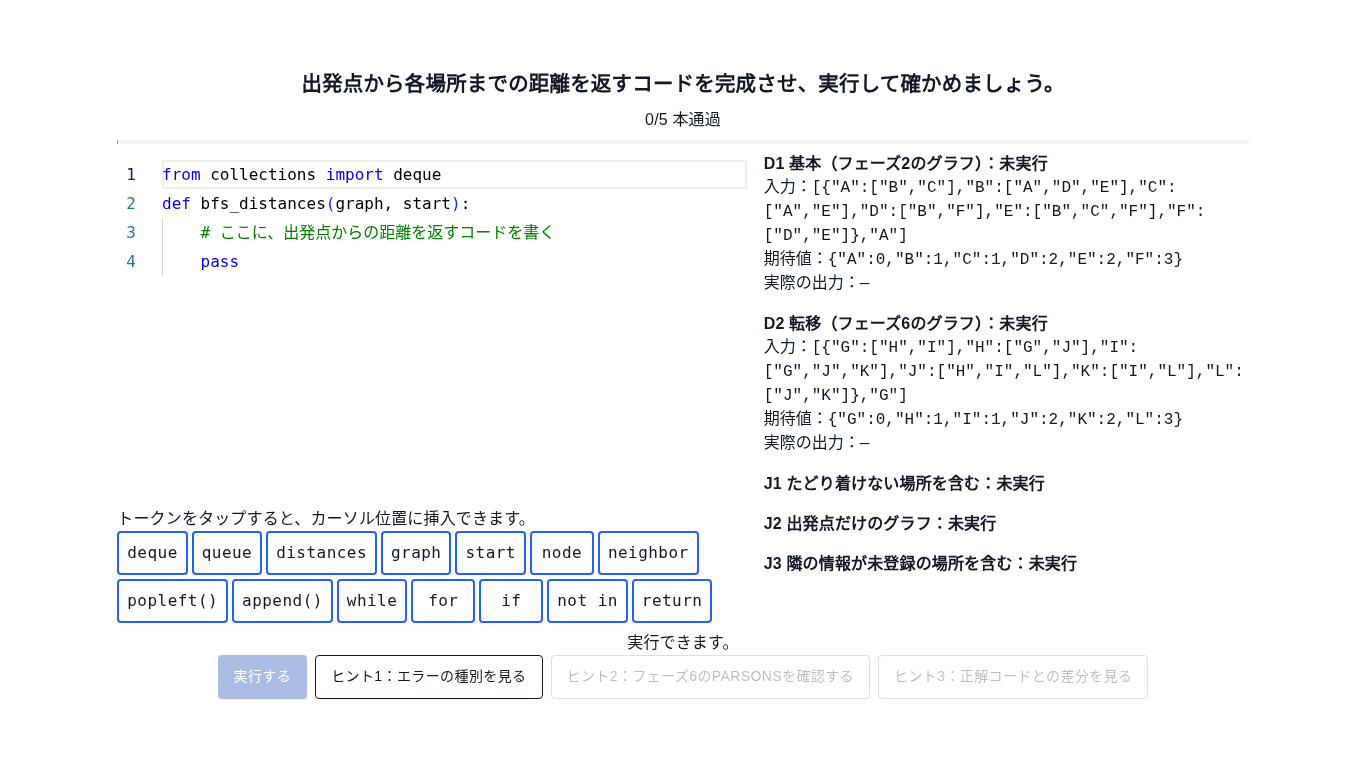
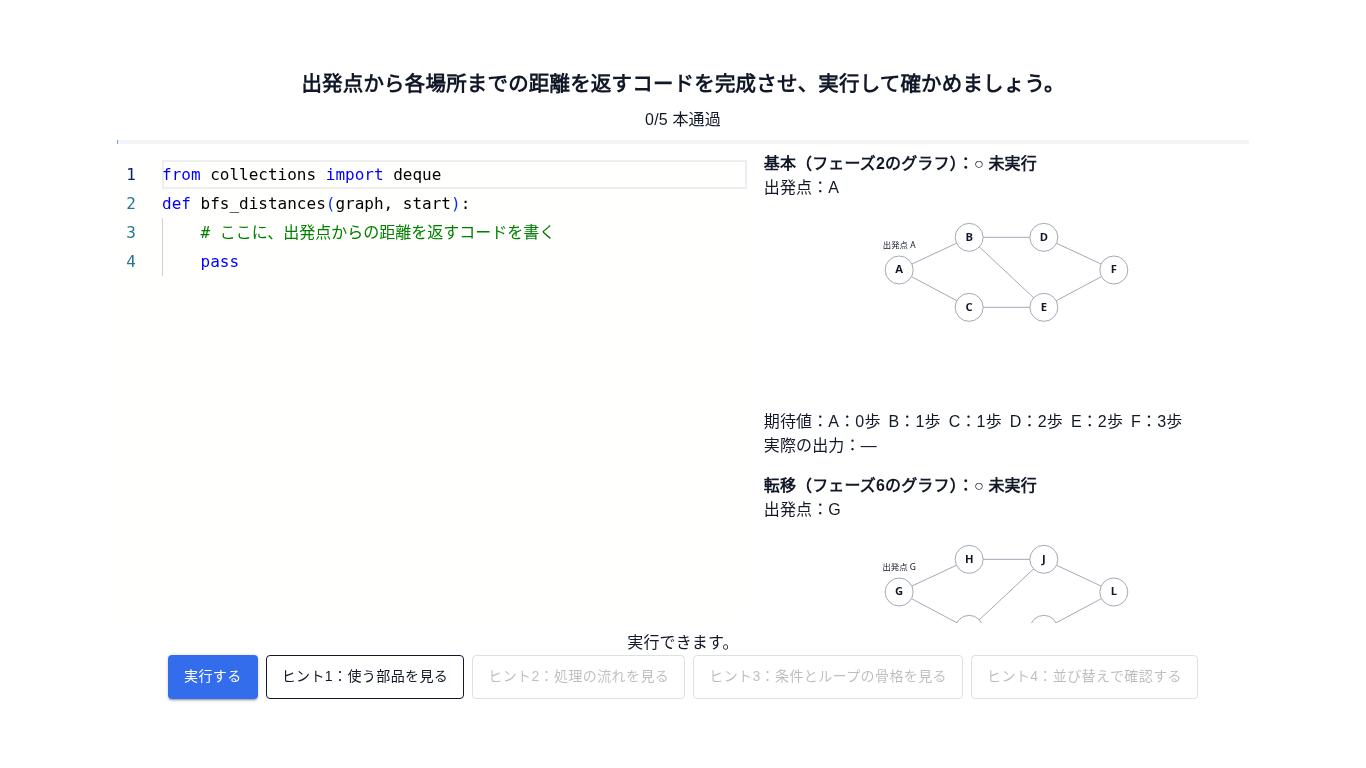
docs: PR99の試行版ヒントと結果表示の確認手順・画像を更新する

diff --git a/docs/bfs-implementation-75.md b/docs/bfs-implementation-75.md
@@ -1,45 +1,48 @@
-# Issue #75 BFS自力実装の実装・検証記録
+# Issue #75・PR #99 BFS自力実装の実装・検証記録
 
-- 目的: テンプレートから自由記述し、5テスト・3段階ヒント・全通過リザルトまでレビューする。
-- 適用範囲: フェーズ7の単品プレビューとParsonsの採点なし表示。状態: 記録。最終確認日: 2026-11-05。
-- 起点: `develop` `262cc2b`（PR #98 マージ済み）。
-- 正本: [Issue #75](https://github.com/BeppuKanato/engineer-quest/issues/75)、[教材指針 §1・フェーズ7](concept/learning-materials-guideline.md)、[UI定義](concept/learning-player-ui.md)、[要約](concept/learning-materials-v2.md)。
-- 詳細: [フェーズ7 README](../front/src/features/learning/bfs/implementation/README.md)。
+- 目的: 自由記述・5テスト・ヒント・全通過リザルト、およびPR #99のレビュー修正を確認する。
+- 適用範囲: フェーズ7の単品ページ。状態: 記録（4段階ヒントの試行版）。最終確認日: 2026-11-05。
+- 起点: `develop` `262cc2b`。レビュー修正の起点: `feat/bfs-implementation-75` `cc93757`。
+- 正本: [PR #99とユーザーレビュー](https://github.com/BeppuKanato/engineer-quest/pull/99)、[Issue #75](https://github.com/BeppuKanato/engineer-quest/issues/75)、[教材指針フェーズ7](concept/learning-materials-guideline.md)、[UI定義](concept/learning-player-ui.md)。詳細は[フェーズ7 README](../front/src/features/learning/bfs/implementation/README.md)。
 
-## 実装内容
+## 今回の変更
 
-既存Monacoで`bfs_distances(graph, start)`を骨組みから完成させる。14個の補助チップは指定のトークンだけで、現在のカーソル位置へ挿入する。
-既存Pyodide基盤で表示用2ケース・判定用3ケースを実行し、1ケースごとに通過数を更新する。判定用は種別と合否だけを描画し、値・標準出力・生の例外を表示しない。
-全5ケースを通過するまでは何度でも編集・再実行でき、全通過時に称号・通過数・実行回数・ヒントのレベル別利用回数・単元完了文を表示する。
-84vw × 84dvhの枠と16pxのコード文字を保ち、モバイルは枠内スクロールでエディタ・チップ・結果へアクセスする。
+テストの見出しから内部IDを除き、ラベルとアイコン＋「通過／未通過／未実行」で表示する。表示用テストの入力JSONを、既存ConsolidationGraphで描く小さいグラフと出発点に置き換えた。D1は正準bfsGraph、D2はフェーズ6のtransferGraphそのものを参照する。描画・座標・色・比率は共通資産に従う。
+期待と実際の距離は「A：0歩」の並びで表示し、値違い・項目不足・余分なキーを文言と下線で識別する。判定用は引き続き種別と合否だけを表示する。
 
-ヒントは1→2→3の順に解放する。レベル1は直近の実行の種別だけを示す。レベル2は最新フェーズ6の設問とParsons盤面を再利用し採点しない。レベル3は現在のコードと正本`bfsCode`から得た本文の行差分を、選択・コピー等を抑止した閲覧専用の表に表示する。適用や貼り付けの操作はない。
+結果欄に文法エラー・実行時エラー・タイムアウト・結果不一致を併記する。未実行時は表示しない。タイムアウトは既存実行器の専用の例外文で判別し、「実行が終わらないテストがあります（無限ループの可能性があります）」と表示する。
+実行中は現在のn/5件目と「各テストは最大15秒、タイムアウト後も続行」を表示し、全5件を打ち切らずに実行する。
 
-## 判断点と対象外
+ヒントを4段階の試行版へ差し替えた。段階式の解放とレベル別利用回数・リザルトは維持する。
 
-- 既存Workerは一括実行の途中で例外が出ると残りの結果を返さないため、同じ`runCourseMissionTests`に1ケースずつ渡す。例外があっても5ケースを試し、結果を逐次更新する。Worker・実行器・15秒タイムアウトの実装は変更しない。
-- エラー分類は既存基盤の文字列から行う。文法エラー以外の実行例外・タイムアウトは「実行の途中でエラー」にまとめ、修正指示や生のエラー文は出さない。
-- レベル2のためにParsonsの`onAnswer`を任意にし、省略時だけ採点ボタンを隠す。フェーズ6の設問・判定・進行は変えない。
-- 判定用データの非表示とレベル3の持ち出し抑止は通常のUIを対象とする。クライアント資産・開発者ツール・画像からの取得を防ぐ仕組みにはしない。
-- 指針にある保存・視覚的デバッグ・次アクションの導線は、今回の明示的な対象外に従い実装しない。DB適用なし、依存追加なし、Mission/Activity変更なし。
+1. 使う部品：distances・queueの説明と14トークン。選ぶと閉じてカーソルへ挿入し、編集フォーカスを戻す。常時チップ行を撤去。
+2. 処理の流れ：指定された番号付き4項目。
+3. 条件とループ：bfsCodeの意味IDから取得したwhile／for／ifの元の3行だけ。本文とインデントを保持する。
+4. 並び替え：既存フェーズ6の設問とParsonsBoard、採点なし。
+
+差分ヒントとこの教材内の差分実装は削除した。`diff`パッケージは`course-exam/codeTranscriptionEditor.tsx`でも使われているため保持し、依存とlockfileを変更しない。
+
+## 指針との差と変更しない範囲
+
+指針・Issue本文の3段階ヒント／常時チップ／差分表示に対し、今回のユーザー指示は試行版の4段階構成を求めている。今回の明示指示を優先し、指針本文自体は改訂しない。
+テスト入力・期待値・骨組み、bfsCodeの本文・意味ID・version、全テスト通過条件は変更しない。
+Monacoのテーマ・文字サイズ・枠と配置、printコンソール、視覚的デバッグ（#76）、アプリ組み込み、保存・ログ送信、フェーズ接続は対象外。DB適用なし。
 
 ## 確認方法
 
-`front/`で`npm ci` → `npm run dev`。起動したマシンで http://localhost:3000/learning-preview/bfs-implementation を開く。ログイン・DB・バックエンドは不要。
-クラウドのlocalhostは、手元PCから直接開ける共有URLではない。
+`front/`で`npm ci` → `npm run dev`。起動したマシンで http://localhost:3000/learning-preview/bfs-implementation を開く。ログイン・DB・バックエンドは不要。クラウドのlocalhostは共有URLではない。
 
-1. MonacoとPyodideの読込完了を待ち、骨組み・14個のチップ・0/5件の進捗・5ケースの一覧を確認する。
-2. カーソルを移してチップを押し、その位置への挿入とUndoを確認する。チップは式や文を補完しない。
-3. 骨組みのまま実行すると通過せず、リザルトへ進めない。ヒント1では結果不一致の種別だけを表示する。
-4. ヒント2を開き、既存Parsonsの行をドラッグまたは上下ボタンで動かす。採点ボタンは出ず、閉じてもエディタのコードは変わらない。
-5. ヒント3で現在のコードと正解本文の行差分を確認する。正解側の文字選択・コピーや、エディタへ適用する操作はない。
-6. BFSを記述し、隣接参照を`graph[node]`にするとJ3で例外となり4/5件になる。J1〜J3に入力・期待値・実際の出力が出ないことを確認する。
-7. `graph.get(node, [])`で未登録の隣接情報を扱えるようにして再実行し、5/5件とリザルトを確認する。実行回数・各レベルの利用回数も確認する。
-8. 再読込で骨組み・0回・未解放ヒントに戻る。別途、文法エラーと実行時エラーを作ってヒント1の区別を確認できる。
+1. 読込完了後、見出しにD1等がなく、ラベル・状態アイコン・グラフ・出発点・期待距離があることを確認する。判定用3件に図や距離が出ないことも確認する。
+2. ヒント1で変数説明と14トークンを確認。カーソルを移してトークンを選ぶと閉じてその位置へ挿入され、Undoで戻せる。
+3. ヒント2で4項目、ヒント3で元のインデントの3行だけ、ヒント4で採点なしParsonsを確認する。前のレベルを開くまで次は無効。閉じてもコードを変えず、再度開くと利用回数を増やす。
+4. 距離を誤るコードや不足・余分な項目を返すコードを実行し、実際の出力の文言と下線を確認する。文法エラーと実行時エラーを作ると、結果欄の種別が切り替わる。
+5. 無限ループを実行するとn/5件目が進み、最大で約75秒かけて全5件が未通過となる。タイムアウトを実行時エラーと別に表示する。
+6. 正解に沿うコードで`graph[node]`を使うと4/5件通過し、未登録の隣接情報を扱うケースが未通過になる。`graph.get(node, [])`へ直して再実行し、5/5件と実行回数・4レベル別ヒント回数のリザルトを確認する。
+7. 390px幅でも枠内スクロールで全結果を確認できる。再読込ですべて初期化する。
 
-## 検証結果
+## 検証
 
-Node.js 20.20.2、Python 3、production buildのChromium。次の11コマンドすべてexit 0。
+Node.js 20.20.2、Python 3。以下11コマンドはすべてexit 0。
 
 ```bash
 npm run lint
@@ -55,25 +58,34 @@ npm run verify:bfs-consolidation
 npm run verify:bfs-implementation
 ```
 
-新verifyでは全5件の期待値を独立BFSで再計算し、指定された入力と一致することを確認。テンプレート構文、14トークンの厳密一致、正本コードとの一致とCPythonでの5件通過、段階式ヒントと回数、行差分、判定用非表示、ハードゲート、例外後の後続ケース・進捗・キャンセルを検証した。
+追加・更新したverifyは、ヒント1のトークン集合、骨格3行の意味IDと元の参照、4段階の解放・回数、教材内の差分実装の不在、他機能のdiff依存の保持、正準グラフとテスト入力の一致、距離の一致・値違い・不足・余分、状態アイコンと内部ID非表示、未実行時の診断なし、タイムアウトの厳密な分類と後続継続、1〜5件目の文言を確認する。従来の5ケース独立BFS・正解のCPython実行・ハードゲート・非公開値の抑止・キャンセルも維持する。
 
-実ブラウザでは1366×768・390×844で、Monacoでの編集・カーソルへのチップ挿入とUndo、ヒントの順序制限と各モーダル、採点なしParsonsの上下移動、差分コピーイベントの抑止、4/5→5/5、リザルト、再読込による初期化を確認した。
-1366px幅では骨組み・文法エラー・実行時エラー・部分通過・15秒タイムアウト・正解の6回を実行し、タイムアウトでWorkerが破棄された後も再実行で5/5件通過した。390px幅では部分通過→正解の2回。生の例外と判定用の値の非表示、API・保存処理なし、ページ例外・横はみ出しなしも確認した。
-390px幅ではチップ領域と結果一覧が重ならないこと、およびJ1〜J3を含む全結果へ枠内スクロールで到達できることを要素の位置でも確認した。
+ブラウザは1366×768・390×844で実Monacoと実Pyodideを使用した。トークン選択による閉じる・挿入・編集フォーカス・Undo、4段階の中身と順序、採点なしParsonsの上下操作、距離の3種類の違い、非公開ケースの非描画、4/5→5/5、4レベルの利用回数とリザルト、再読込を確認した。
+1366px幅では全5件がタイムアウトするコードで1件目〜5件目を確認し、約75秒で全ケースが未通過となった後も再実行できることを確認した。既存の15秒制限・Workerは変更していない。1366px幅では6回、390px幅では3回実行し、リザルトのヒント回数は両幅ともレベル1〜4で2・1・1・2回と一致した。
 
-### ブラウザ検証時の環境上の制約
+### 環境上の制約
 
-このクラウドのChromiumは、プロキシ経由のCDN証明書を信頼できずMonacoとPyodideの直接読込に失敗した。永続的な信頼ストアへのCA追加は自動承認審査で拒否されたため、設定変更は行っていない。
-検証時のみ、HTTPS検証を有効にしたcurlでPyodide 0.27.7の実資産を取得し、既存node_modulesの同一バージョンMonaco 0.54.0とともに一時ローカルサーバーから配信した。production buildの検証用プロキシはCDN資産のURLだけをローカルへ置き換えた。Python実行や判定結果のスタブは使っていない。
-リポジトリのCDN設定・Worker・pyodideRunnerは変更していない。標準CDN経由の直接読込は、この環境では未確認として区別する。
+初回実装と同じく、このクラウドのChromiumはCDNへの直接読込に証明書制約がある。検証時のみ、HTTPS検証して取得した実Pyodide 0.27.7と、既存node_modulesの同一バージョンMonaco 0.54.0を一時ローカル配信し、資産URLだけを差し替える検証用プロキシを使う。Python実行や判定結果はスタブ化しない。
+リポジトリのCDN設定・pyodideRunner・Workerは変更しない。標準CDNからの直接読込は本環境では未確認として区別する。
 
-## 確認画像
+## PR #99 修正後の確認画像
 
-| 画面 | 1366×768 | 390×844 |
+画像は指定viewportで撮影した全ページ画像。枠内の結果一覧は必要に応じてスクロールしている。
+
+| 内容 | 1366×768 | 390×844 |
 | --- | --- | --- |
-| 骨組み・チップ・テスト | ![初期画面](figures/bfs-implementation-75/1366-initial.png) | ![初期画面](figures/bfs-implementation-75/390-initial.png) |
-| ヒント1 | ![種別](figures/bfs-implementation-75/1366-hint1.png) | ![種別](figures/bfs-implementation-75/390-hint1.png) |
-| ヒント2・採点なしParsons | ![Parsons](figures/bfs-implementation-75/1366-hint2.png) | ![Parsons](figures/bfs-implementation-75/390-hint2.png) |
-| ヒント3・行差分 | ![差分](figures/bfs-implementation-75/1366-hint3.png) | ![差分](figures/bfs-implementation-75/390-hint3.png) |
-| 4/5件で継続 | ![部分通過](figures/bfs-implementation-75/1366-partial.png) | ![部分通過](figures/bfs-implementation-75/390-partial.png) |
-| 全通過リザルト | ![完了](figures/bfs-implementation-75/1366-complete.png) | ![完了](figures/bfs-implementation-75/390-complete.png) |
+| 初期状態・図と距離 | ![初期状態](figures/bfs-implementation-75/1366-initial.png) | ![初期状態](figures/bfs-implementation-75/390-initial.png) |
+| ヒント1・変数とトークン | ![部品](figures/bfs-implementation-75/1366-hint1.png) | ![部品](figures/bfs-implementation-75/390-hint1.png) |
+| ヒント2・4項目の流れ | ![流れ](figures/bfs-implementation-75/1366-hint2.png) | ![流れ](figures/bfs-implementation-75/390-hint2.png) |
+| ヒント3・元の3行 | ![骨格](figures/bfs-implementation-75/1366-hint3.png) | ![骨格](figures/bfs-implementation-75/390-hint3.png) |
+| ヒント4・採点なしParsons | ![並び替え](figures/bfs-implementation-75/1366-hint4.png) | ![並び替え](figures/bfs-implementation-75/390-hint4.png) |
+| 値違い・不足・余分 | ![距離の違い](figures/bfs-implementation-75/1366-mismatch.png) | ![距離の違い](figures/bfs-implementation-75/390-mismatch.png) |
+| 4/5件・判定用は値なし | ![部分通過](figures/bfs-implementation-75/1366-partial.png) | ![部分通過](figures/bfs-implementation-75/390-partial.png) |
+| 完了・4レベルの回数 | ![完了](figures/bfs-implementation-75/1366-complete.png) | ![完了](figures/bfs-implementation-75/390-complete.png) |
+
+| エラーと進捗 | 1366×768 |
+| --- | --- |
+| 文法エラー | ![文法エラー](figures/bfs-implementation-75/1366-syntax.png) |
+| 実行時エラー | ![実行時エラー](figures/bfs-implementation-75/1366-runtime.png) |
+| 2/5件目・タイムアウト後も続行 | ![実行中](figures/bfs-implementation-75/1366-running.png) |
+| 全5件タイムアウト | ![タイムアウト](figures/bfs-implementation-75/1366-timeout.png) |

diff --git a/front/src/features/learning/bfs/implementation/README.md b/front/src/features/learning/bfs/implementation/README.md
@@ -1,58 +1,60 @@
 # BFS フェーズ7「自力実装」
 
-- 目的: Issue #75 の骨組み付き自由記述、Pyodideによる5ケースの判定、3段階ヒント、全通過リザルトを単品で操作する。
-- 適用範囲: フェーズ7のフロントエンド・教材データ・検証。状態: 現行。最終確認日: 2026-11-05。
-- 起点: `develop` `262cc2b`（PR #98 マージ済み）。
-- 正本: [Issue #75](https://github.com/BeppuKanato/engineer-quest/issues/75)、[教材指針 §1・フェーズ7](../../../../../../docs/concept/learning-materials-guideline.md)、[UI定義](../../../../../../docs/concept/learning-player-ui.md)、[要約](../../../../../../docs/concept/learning-materials-v2.md)。
+- 目的: Issue #75 の自由記述・5テスト・段階式ヒント・全通過リザルトを単品で操作する。
+- 適用範囲: フェーズ7のフロントエンド・教材データ・検証。状態: 現行（PR #99レビューに基づく4段階ヒントの試行版）。最終確認日: 2026-11-05。
+- 起点: `develop` `262cc2b`、レビュー修正の起点: `feat/bfs-implementation-75` `cc93757`。
+- 正本: [Issue #75](https://github.com/BeppuKanato/engineer-quest/issues/75)、[PR #99](https://github.com/BeppuKanato/engineer-quest/pull/99)、[教材指針 §1・フェーズ7](../../../../../../docs/concept/learning-materials-guideline.md)、[UI定義](../../../../../../docs/concept/learning-player-ui.md)。今回の明示的な修正依頼を指針の3段階ヒント・常時チップ・差分表示に優先する。
 - 確認画像・検証結果: [実装報告](../../../../../../docs/bfs-implementation-75.md)。
 
 ## 起動・操作
 
-`front/`で`npm ci` → `npm run dev`。起動したマシンのブラウザで`http://localhost:3000/learning-preview/bfs-implementation`を開く。ログイン・バックエンド・DBは不要。
+`front/`で`npm ci` → `npm run dev`。起動したマシンで`http://localhost:3000/learning-preview/bfs-implementation`を開く。ログイン・バックエンド・DB不要。
 production buildは`npm run build`後に`node node_modules/next/dist/bin/next start --hostname 127.0.0.1 --port 3000`。
-クラウド上のlocalhostは、手元のPCから直接開ける共有URLではない。
+クラウドのlocalhostは手元PCから直接開ける共有URLではない。
 
-1. MonacoとPython実行環境の読込を待つ。関数定義・dequeのimport・コメント・passの骨組みを表示する。
-2. エディタで処理を記述する。14個のトークンチップは全員に提供し、カーソル／選択範囲へそのトークンだけを挿入する。Undoで1回の挿入を戻せる。
-3. 「実行する」で全5ケースを順に実行し、常時表示の通過数・プログレスと各ケースの結果を確認する。途中のエラーでも後続ケースを試す。実行回数に上限はない。
-4. ヒント1を開くとヒント2、ヒント2を開くとヒント3が解放される。未実行でも利用できる。同じレベルを再度開くたびに利用回数を増やす。
-5. 5/5件を通過すると自動で完了リザルトへ切り替わり、称号・通過数・実行回数・レベル別ヒント利用回数・単元完了文を表示する。接続ボタンは置かない。
-6. 再読込ですべて初期化する。保存・ログ送信はない。
+1. MonacoとPyodideの読込を待つ。dequeのimport・関数定義・コメント・passの骨組みからコードを書く。
+2. 「実行する」で全5ケースを順に実行する。通過数を常時表示し、実行中は現在のn/5件目と「各テストは最大15秒、タイムアウト後も続行」を表示する。
+3. 結果一覧はラベルとアイコン＋通過／未通過／未実行を表示する。表示用は入力の小さいグラフ・出発点、期待と実際の距離の並びを表示し、値違い・不足・余分な項目を文言と下線で示す。
+4. エラー種別は結果欄へ常時併記する。文法エラー・実行時エラー・タイムアウト・結果不一致を区別し、未実行時は出さない。判定用は種別・合否だけを表示する。
+5. ヒントは1→2→3→4の順に解放し、開くたびにそのレベルの利用回数を増やす。エディタ下の常時チップは置かない。
+6. 全5ケース通過で称号・通過数・実行回数・4レベル別ヒント回数・単元完了文を表示する。実行回数の上限はなく、次フェーズへ接続するボタンはない。
+7. 再読込で初期化する。保存・ログ送信はない。
 
-枠は84vw × 84dvh。コードは16px、Monacoの既存組み込みと同じlightテーマ。広い画面は左にエディタとチップ、右に結果一覧。狭い画面は枠内で縦スクロールし、実行とヒントは下部に残す。狭い画面のヒントボタンはレベル名を短く表示し、エディタの高さを確保する。
+エディタのテーマ・文字サイズ・枠と配置は今回変更しない。84vw × 84dvh、Monacoのlightテーマ、16px。狭い画面は枠内を縦スクロールし、操作は下部に残す。
 
-## データと判定
+## データと結果表示
 
-`implementation.content.ts`にテンプレート・テスト・チップ・ヒント文・称号と締めの文を分離する。
+`implementation.content.ts`に骨組み・テスト・表示用のグラフ参照・各ヒント・ラベル・文言を分離する。テストのグラフ・期待値・骨組みは初回実装から変更していない。
 
-| ID | 表示 | 種別・条件 | 期待される距離 |
-| --- | --- | --- | --- |
-| D1 | 入力・期待値・実際の出力 | フェーズ2のグラフ、A開始 | A=0、B/C=1、D/E=2、F=3 |
-| D2 | 入力・期待値・実際の出力 | フェーズ6のグラフ、G開始 | G=0、H/I=1、J/K=2、L=3 |
-| J1 | 種別・合否だけ | D1に孤立Zを追加 | D1と同じ、Zを含まない |
-| J2 | 種別・合否だけ | Aだけ、辺なし | A=0 |
-| J3 | 種別・合否だけ | A→B、Bの隣接情報なし | A=0、B=1 |
+| 内部ID（画面には出さない） | 表示 | 条件・期待値 |
+| --- | --- | --- |
+| D1 | 図・出発点・期待と実際の距離 | 基準グラフ、A開始。A=0、B/C=1、D/E=2、F=3 |
+| D2 | 図・出発点・期待と実際の距離 | G〜L、G開始。G=0、H/I=1、J/K=2、L=3 |
+| J1 | 種別・合否のみ | D1＋孤立Z。期待値にZなし |
+| J2 | 種別・合否のみ | Aだけ。A=0 |
+| J3 | 種別・合否のみ | A→B、Bの隣接情報未登録。A=0、B=1 |
 
-すべて`functionName: bfs_distances`、`args: [graph, start]`。
-`preparePyodide`／`runCourseMissionTests`と既存`PythonTestCase`・`PythonTestResult`を使う。新しいPython実行器やWorkerは作らない。
-既存Workerは複数ケースをまとめて渡すと途中の例外で止まるため、各ケースを1件ずつ渡す。これによりエラー後も後続を試し、ケースごとにプログレスを更新できる。
-実行タイムアウトは既存基盤の15秒に委ねる。タイムアウト後も次の実行で既存基盤がWorkerを再生成する。アンマウント時は実行器を破棄し、後続ケースの要求を止める。
+D1の図は`bfsGraph`、D2はフェーズ6の`transferGraph`そのものを参照する。既存`ConsolidationGraph`を小さい枠で使い、共通描画・色・座標・比率は変えない。既存部品へ任意の`minHeight`を加え、フェーズ6の既定値320は維持する。
+距離は「A：0歩」の形で並べる。実際の項目を期待値とキー単位で照合し、値違いには期待値、不足には「項目なし」、余分なキーには「余分な項目」を示す。辞書以外の戻り値や数値以外の距離も区別する。
 
-画面へ渡す実行状態はID・合否・エラー種別と、表示用だけの実際の出力に限定する。判定用の値、標準出力・標準エラー、生の例外文は表示しない。
-クライアント内で実行するため、判定用データを開発者ツールから秘匿する仕組みではない。画面上で入出力を描画しないという契約を満たす。
-編集すると表示中のテスト結果をクリアするが、ヒント1には直近の実行結果を使う。実行中は編集・チップ・ヒント・重複実行を無効にし、実行開始時のコードで評価する。
+`preparePyodide`／`runCourseMissionTests`を使い、1件ずつ実行して例外後も後続ケースを試す。15秒タイムアウトとWorker再生成は既存基盤に委ねる。専用のタイムアウト例外文と完全一致する場合だけ、新設のtimeout種別にする。
+画面へ渡す状態はID・合否・エラー種別と、表示用だけの実際の出力。判定用の値・stdout／stderr・生の例外文は表示しない。編集で表示中の結果をクリアしても、結果欄のエラー種別は直近の実行結果を参照する。
 
-## 段階式ヒント
+## 試行版の4段階ヒント
 
-- レベル1: 未実行／文法エラー／途中のエラー／結果不一致だけを言語化する。修正案は出さない。既存基盤が例外を文字列で返すため、`SyntaxError`・`IndentationError`・`TabError`を文法エラーとして分類し、それ以外を途中のエラーとする。
-- レベル2: フェーズ6コンテンツのParsons設問そのものと既存`ParsonsBoard`をモーダルで使う。`onAnswer`省略時だけ採点ボタンを隠す最小変更を共用部品に加えた。ドラッグ・上下ボタン・提示順へのリセットは従来どおり。フェーズ6の採点は変更しない。
-- レベル3: `bfsCode.lines.map(line => line.text).join("\n")`で得た正解本文と現在のコードを、既存`diff`依存の`diffLines`で行単位に対応させる。閲覧専用の表として表示し、選択・コピー・切り取り・ドラッグ持ち出し・コンテキストメニューを抑止する。エディタへの適用・コピーのボタンや正解用編集モデルは作らない。
+| レベル | 内容 |
+| --- | --- |
+| 1「使う部品を見る」 | distancesとqueueの説明、指定14トークン。選ぶと閉じて現在のカーソル／選択範囲へ挿入し、エディタへフォーカスを戻す。Undo可能 |
+| 2「処理の流れを見る」 | 初期化、先頭取り出し、隣の未発見判定と距離記録・追加、反復と返却の番号付き4項目 |
+| 3「条件とループの骨格を見る」 | `bfsCode`の意味ID`while-queue`／`for-neighbor`／`if-undiscovered`から元の3行を取得。本文・インデントを書き直さず、取り出し・代入・追加・returnは見せない |
+| 4「並び替えで確認する」 | フェーズ6の設問と既存ParsonsBoardを`onAnswer`なしで表示。ドラッグ・上下移動・提示順リセットのみ、採点しない |
 
-レベル3の制限は通常の画面操作を対象とし、スクリーンショットや開発者ツールによる取得を防ぐものではない。コード契約の本文・意味ID・versionは変更しない。
+差分ヒントとその実装は削除した。ただし`diff`パッケージは既存の`course-exam/codeTranscriptionEditor.tsx`で利用中のため、package.json・lockfileから削除しない。今回の教材はこの依存を使わない。
+正本`bfsCode`の本文・意味ID・version、フェーズ6の設問・採点は変更しない。
 
 ## 検証
 
-`front/`で以下を実行する。既存のPython構文検証に`python3`を使う。
+`front/`で以下を実行する。Python構文と正解確認に`python3`を使う。
 
 ```bash
 npm run lint
@@ -68,7 +70,7 @@ npm run verify:bfs-consolidation
 npm run verify:bfs-implementation
 ```
 
-新verifyは、全ケースの独立BFS、テンプレートのimport・関数定義・構文、トークンの許可リスト、正解コードの契約とCPythonでの全ケース通過、ヒントの段階・回数、差分の行対応、判定用結果の非描画、全通過条件、実行アダプタの進捗・例外後続・キャンセルを確認する。
-実際のMonaco・Pyodideを使うブラウザ検証の手順と環境上の制約は実装報告に記載する。
+新verifyは全5ケースの独立BFSと指定入力、テンプレート、ヒント1の14トークン、骨格3行のIDと参照同一性、4段階の解放・回数、差分実装の不在、既存diff利用の保持、図とテストの一致、距離の値違い・不足・余分、タイムアウト分類・進捗文言、判定用非表示、全通過条件、例外後続・キャンセルを確認する。
+実ブラウザのPython実行と画像・環境制約は実装報告に記載する。
 
-DB適用なし。Mission/Activity・アプリ組み込み・進捗／ログ保存・他フェーズの実装・フェーズ間接続（#77）・視覚的デバッグ（#76）は対象外。
+DB適用なし。アプリ組み込み・Mission/Activity・進捗／ログ保存・フェーズ接続・視覚的デバッグ・printコンソール・エディタ改善は対象外。

diff --git a/docs/README.md b/docs/README.md
@@ -30,7 +30,7 @@
 | [BFS フェーズ4](../front/src/features/learning/bfs/code-mapping/README.md) | 現行 | Issue #72 のコード本文・意味ID契約、62フレーム、フェーズ2参照、単品確認とPythonトレース検証 |
 | [BFS フェーズ5](../front/src/features/learning/bfs/code-check/README.md) | 現行 | Issue #73 の独立した穴埋め2問、共有コード表示・設問セッション・任意復習、結果と確認手順 |
 | [BFS フェーズ6](../front/src/features/learning/bfs/consolidation/README.md) | 現行 | Issue #74 の転移・境界ケース・Parsonsの5問、初回結果のタグ別診断、任意復習とソフトゲート |
-| [BFS フェーズ7](../front/src/features/learning/bfs/implementation/README.md) | 現行 | Issue #75 のMonaco自由記述・Pyodideの5テスト・段階式ヒント・全通過リザルトと単品確認手順 |
+| [BFS フェーズ7](../front/src/features/learning/bfs/implementation/README.md) | 現行 | Issue #75／PR #99 の図と距離による5テスト結果・試行版4段階ヒント・全通過リザルトと確認手順 |
 
 従来フロー（Course / Mission / Activity）の学習設計文書、概念・設計検討文書、コース設計記録は、2026-11-04 の判断で削除した。従来フローの現在の挙動と教材内容は、実行コード、Prisma schema、seed を正とする。
 
@@ -38,7 +38,7 @@
 
 | 文書 | 状態 | 用途 |
 | --- | --- | --- |
-| [bfs-implementation-75.md](bfs-implementation-75.md) | 記録 | Issue #75 の自力実装・5ケース・3段階ヒント、実Pyodideの確認画像とCDN読込の環境制約 |
+| [bfs-implementation-75.md](bfs-implementation-75.md) | 記録 | Issue #75／PR #99 の結果図示・4段階ヒント・タイムアウト分類、実Pyodideの確認画像と環境制約 |
 | [bfs-code-check-73.md](bfs-code-check-73.md) | 記録 | Issue #73 の穴埋め2問、共通基盤の再利用、構文・再挑戦・復習の検証と確認画像 |
 | [bfs-consolidation-74.md](bfs-consolidation-74.md) | 記録 | Issue #74 の5問と初回診断、PR #96 の図サイズ・Parsonsドラッグ／初期化行交換の修正、独立BFS検証と確認画像 |
 | [bfs-parsons-single-list-97.md](bfs-parsons-single-list-97.md) | 記録 | Issue #97 の Parsons 盤面の1リスト直接並び替え化（2リスト方式からの再設計、実行確認は #76 と合わせて判断） |
